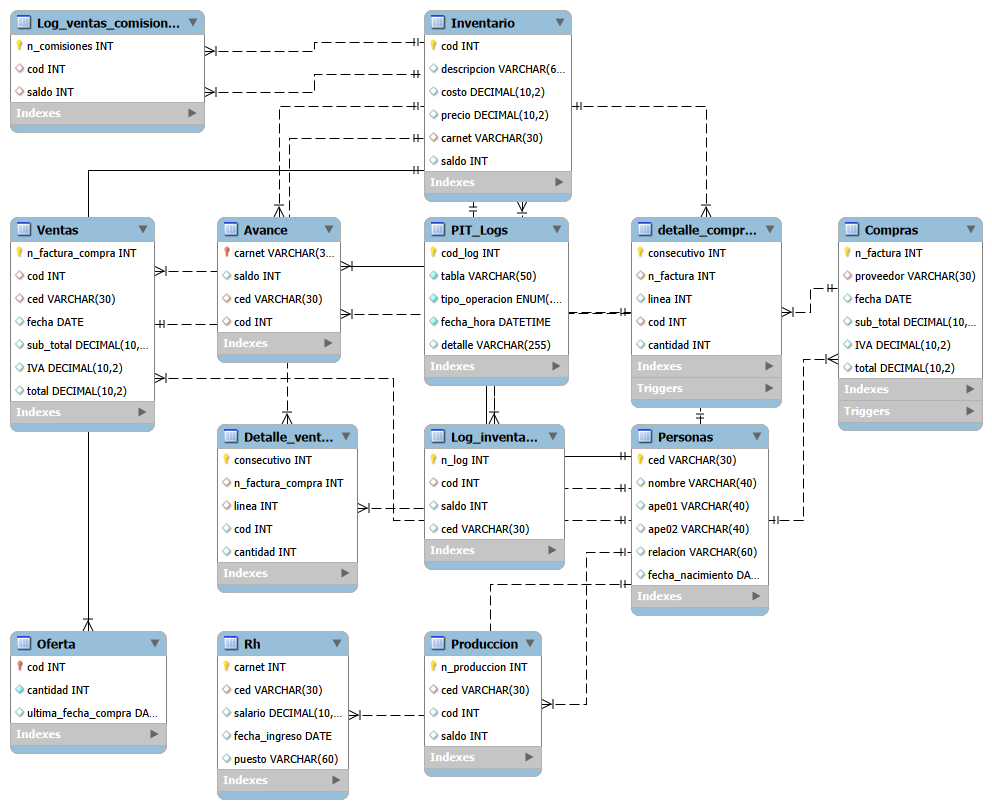
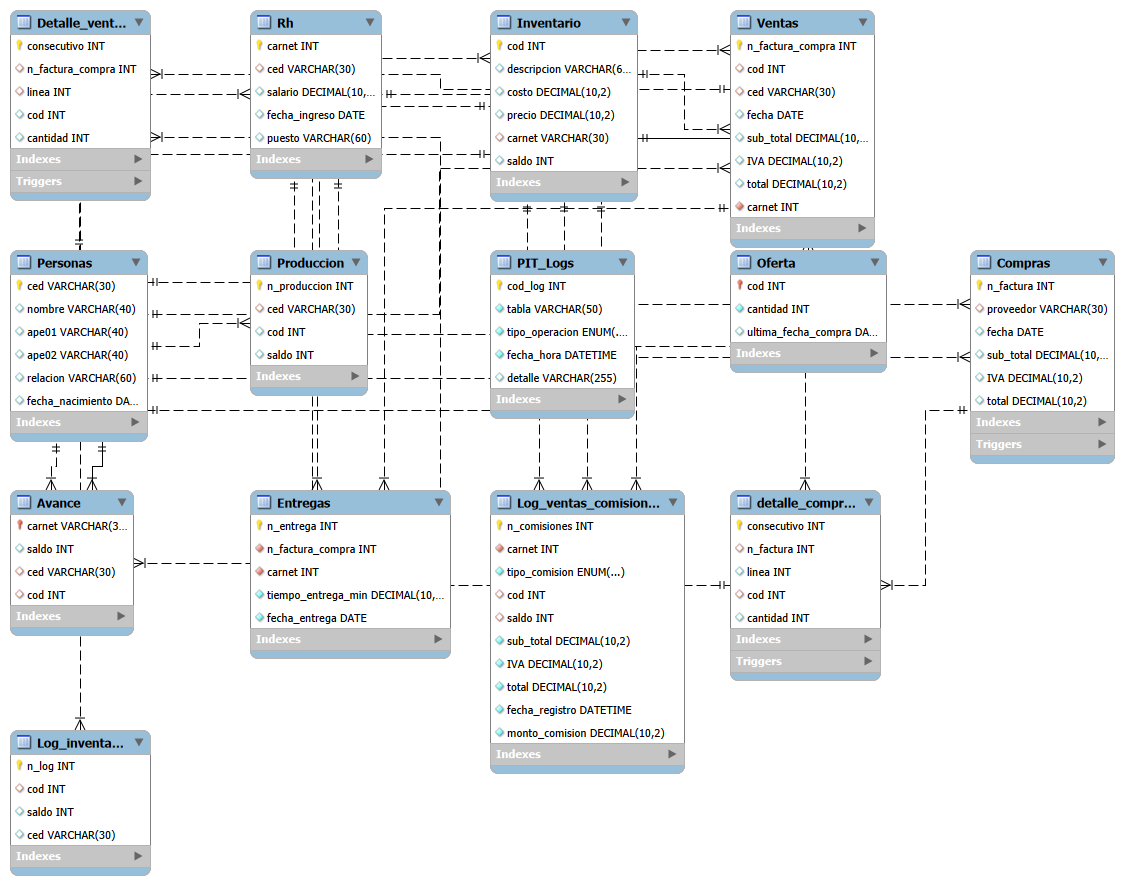
Se actualiza el diagrama, el documentos desiciones.md y requisitos.md que pasa a ser PromesasIT.md

Changed region(s): [[0.0, 0.0, 1.0, 1.0]]

diff --git a/docs/decisiones.md b/docs/decisiones.md
@@ -21,3 +21,9 @@ Link del artículo: https://delfino.cr/2024/03/proyecto-de-ley-obligaria-a-salon
 
 Nota: Para este proyecto, se trabajará con una comisión del 3% sobre el valor de la venta para los vendedores y un 5% del
 salario base extra de comisión para los cocineros.
+
+Se utilizó un procedimiento almacenado para calcular de manera manual la comisión del 3% para los cocineros, solo habría que llamar al procedimiento.
+En este caso se tomó como desición que las comisiones se pagarán a fin de mes, así que se creó un EVENT para activar este procedimiento cada fin de mes.
+
+En el caso de los vendedores, estos obtienen su comisión a partir de sus ventas llevandose un porcentaje, entonces con cada venta se dispara el trigger
+haciendo que se vayan registrando las comisiones correspondientes.
